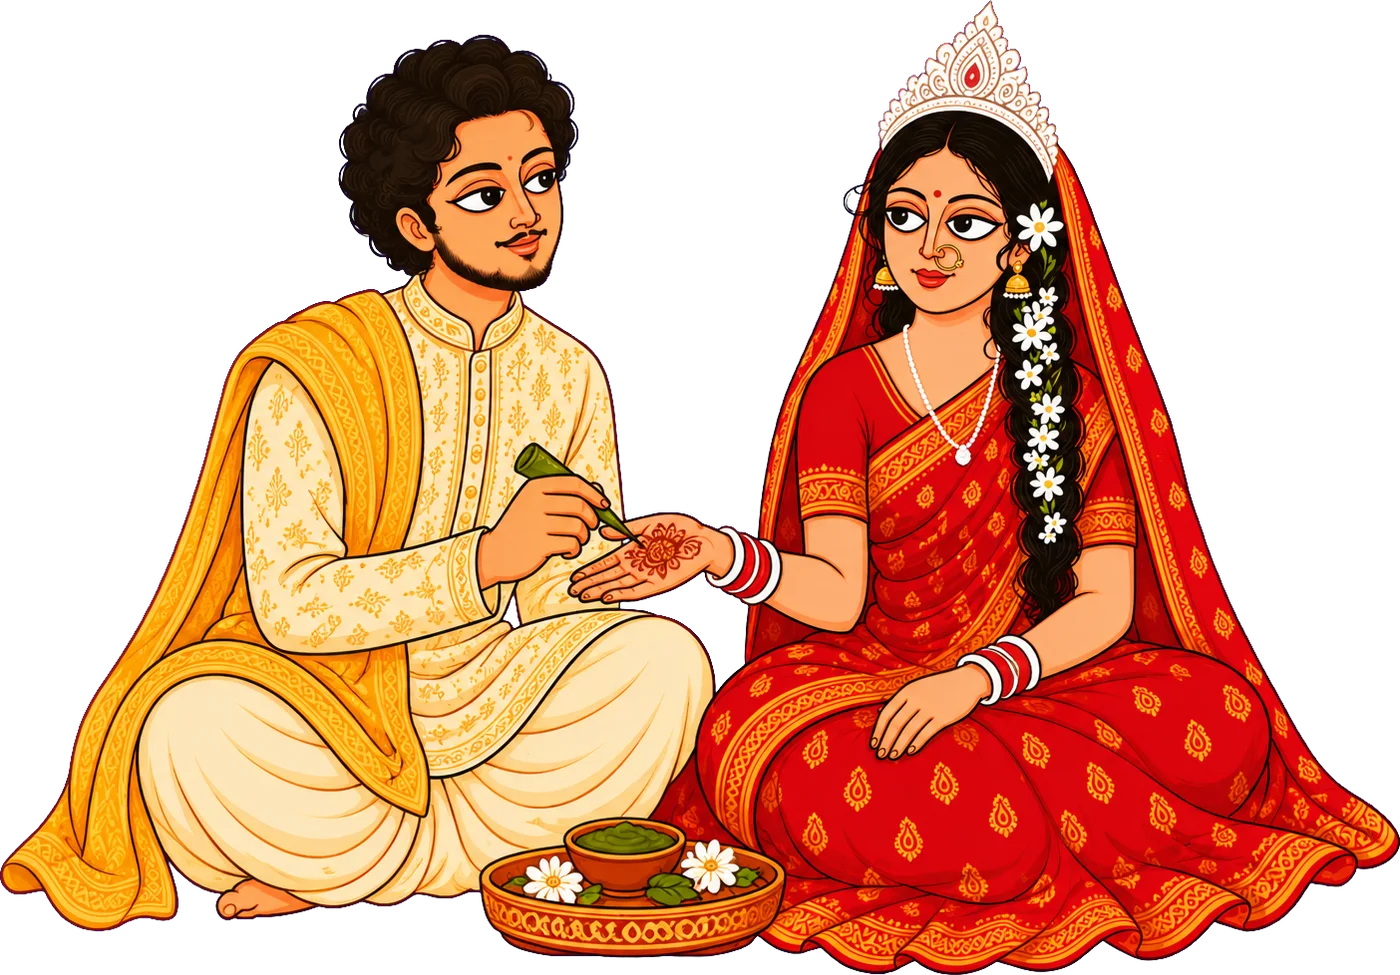
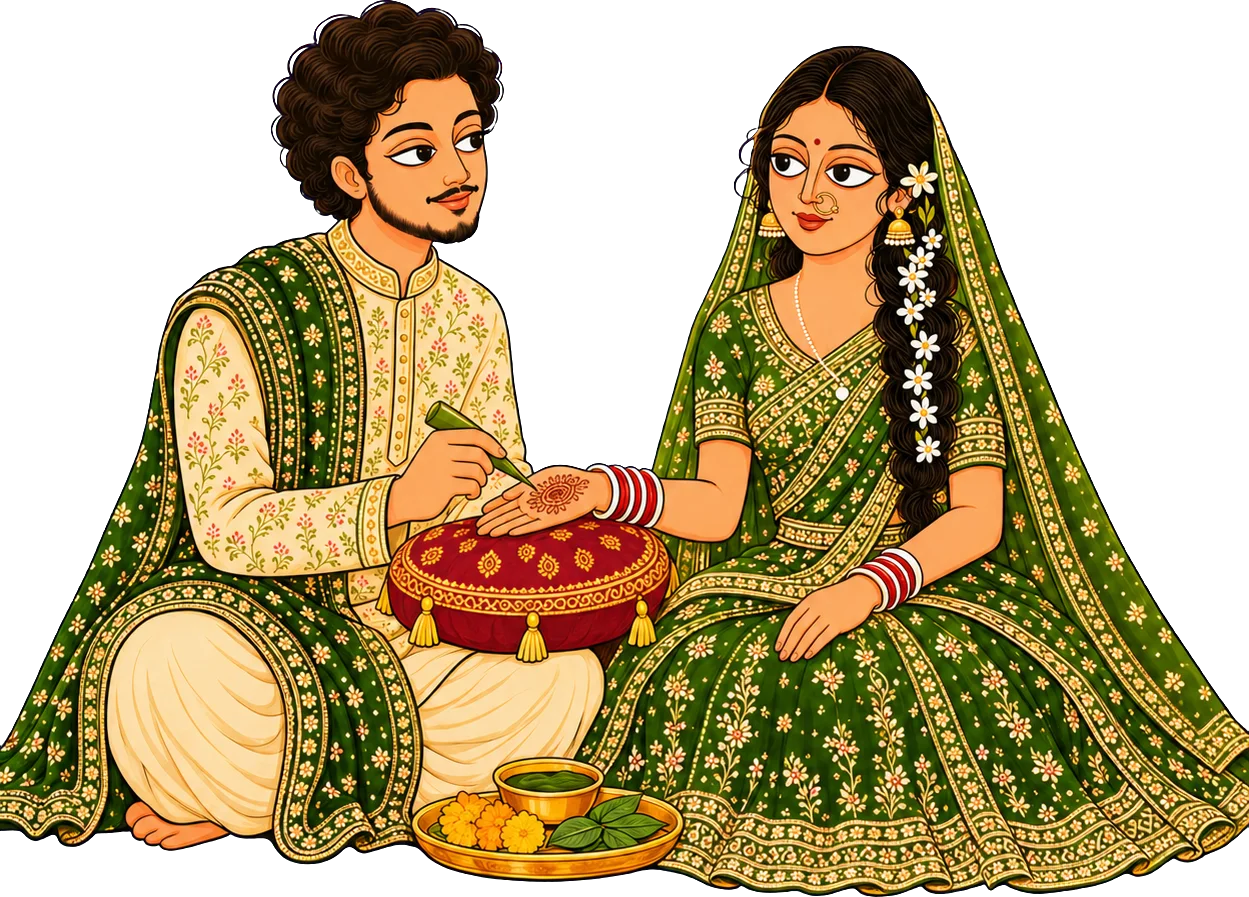
Mehendi couple redrawn with new eye points; Sangeet dhol and harmonium larger
New mehendi-couple picture at its own size, with blink.py's eye points
measured for it and both blink frames made again. The Sangeet music
corner is drawn bigger.

diff --git a/src/scenes/scenes.js b/src/scenes/scenes.js
@@ -117,7 +117,7 @@ export const SCENES = [
       L('mehendi-wall', 2200, 2000, { z: 2, full: true, kind: 'wall' }),
       L('mehendi-window', 1180, 2000, { y: 0, z: 3, kind: 'frame' }),
       L('mehendi-seat', 1500, 450, { y: 0, z: 4 }),
-      person('mehendi-couple', 980, 650, -10, 40, 5),
+      person('mehendi-couple', 950, 682, -10, 40, 5),
       ...foliage(7), ...flowers('flowers-white').map((f) => ({ ...f, y: -90 })),
     ],
     play(tl, q, root) {
@@ -179,7 +179,7 @@ export const SCENES = [
       L('garden-w', 1500, 645, { art: 'sangeet-garden', y: 150, z: 1, repeat: true }),
       L('garden-t', 1080, 464, { art: 'sangeet-garden', y: 820, z: 1, full: true, base: '#8c8401' }),
       L('sangeet-floor', 2200, 267, { z: 1, full: true, kind: 'ground' }),
-      L('sangeet-music', 420, 189, { y: 40, x: -720, z: 4 }),
+      L('sangeet-music', 660, 297, { y: 25, x: -720, z: 4 }),
       L('sangeet-stage-small', 1250, 668, { y: 330, z: 2 }),
       L('candle-l', 200, 763, { art: 'sangeet-candles', ax: 'l', x: 6, y: 70, z: 4 }),
       L('candle-r', 200, 763, { art: 'sangeet-candles', ax: 'r', x: 6, y: 70, z: 4, flip: true }),

diff --git a/scripts/blink.py b/scripts/blink.py
@@ -21,7 +21,7 @@ EYES = {  # figure: one list of eye centres per person; (x, y, r) looks only r p
     'hero-bride': [[(247, 122), (320, 135)]],
     'briddhi-family': [[(236, 168, 20), ('box', 264, 155, 274, 165)], [(452, 196, 20), (494, 179, 20)], [(1095, 174, 22), (1145, 181, 22)]],
     'tilak-groom': [[(357, 120), (410, 130)]],
-    'mehendi-couple': [[(473, 205, 24), (540, 180, 22)], [(903, 218), (970, 228)]],
+    'mehendi-couple': [[('box', 390, 146, 437, 166), ('box', 451, 136, 483, 154)], [(791, 167, 36), (852, 176, 36)]],
     'aibur-family': [[(383, 184, 18), (430, 178, 18)], [(650, 203, 24), (712, 210, 24)], [(964, 118, 18), (1016, 146, 18)], [(1113, 366, 16), (1155, 396, 16)]],
     'haldi-couple': [[(460, 158, 26), (520, 138, 24)], [(928, 203), (993, 215)]],
     'sangeet-bride': [[(458, 233), (522, 248)]],
